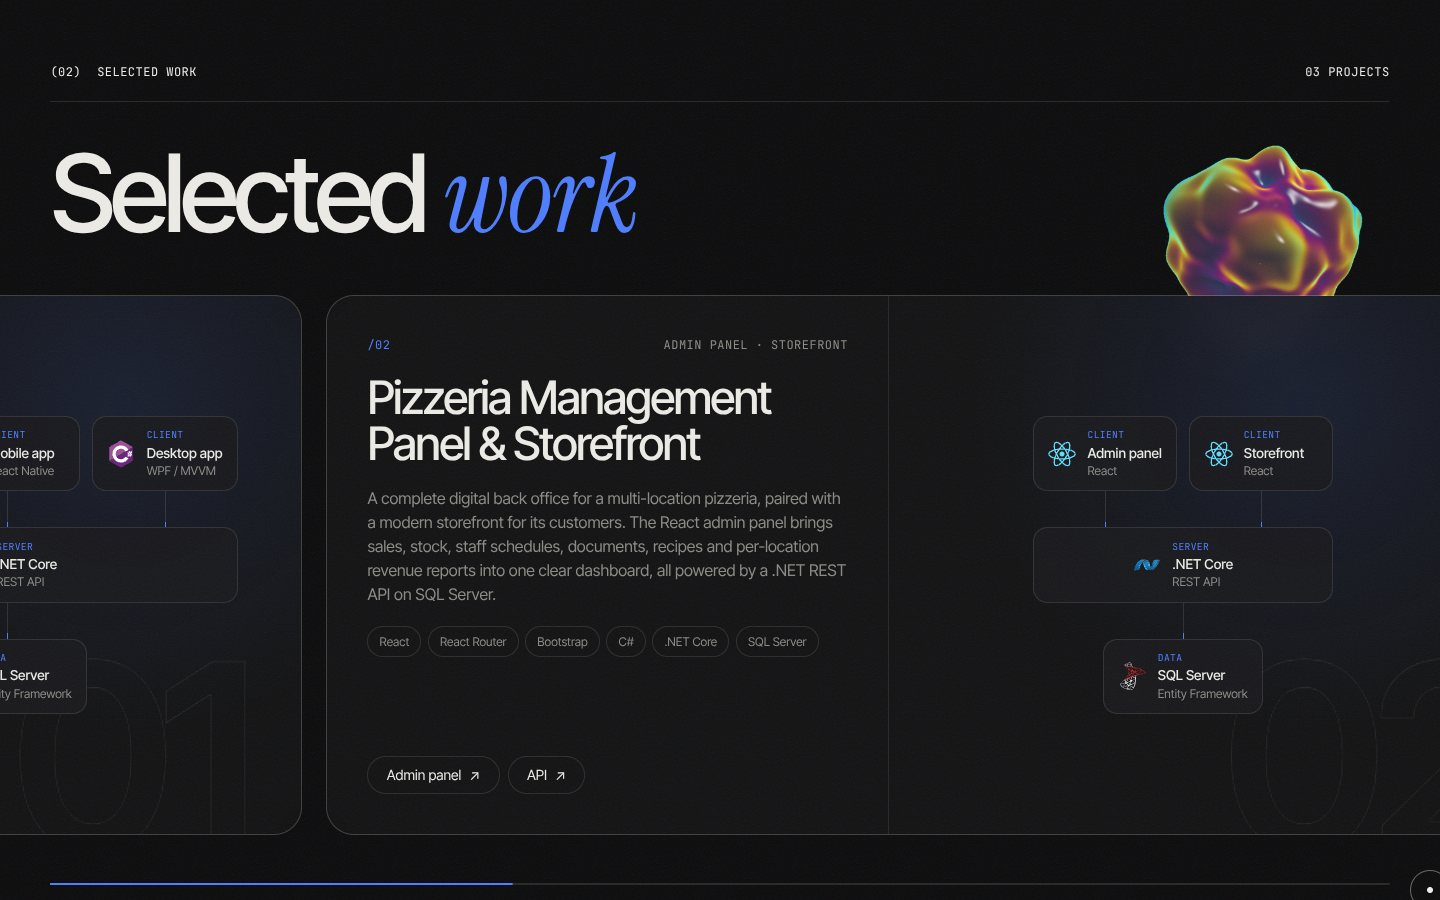
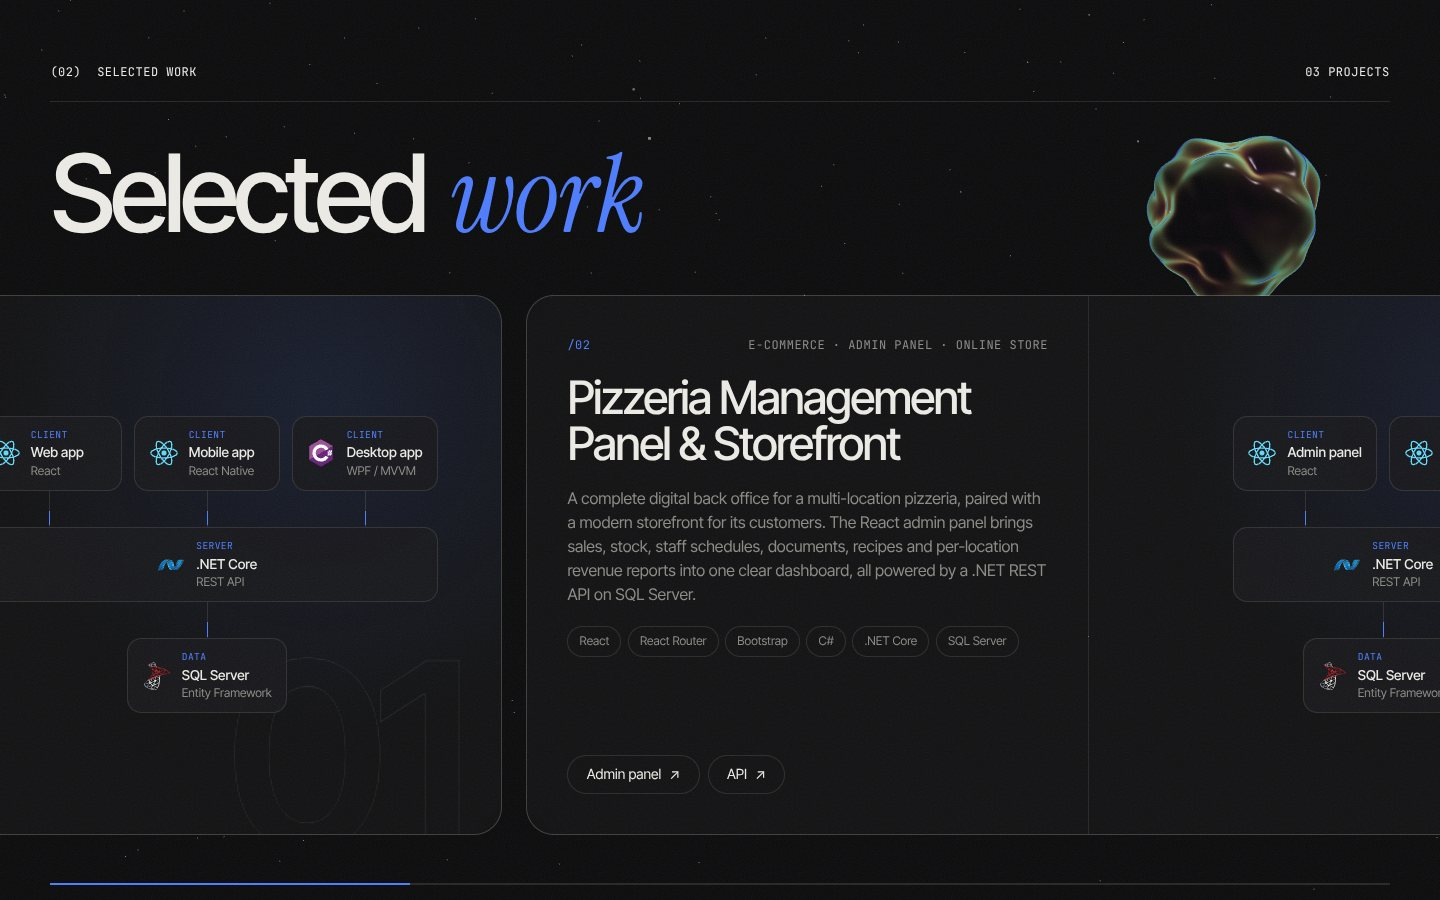
Refresh README screenshots with the live 3D scene

diff --git a/README.md b/README.md
@@ -8,7 +8,7 @@ A dark, cinematic one-pager in English and Polish, built around a single WebGL s
 
 ## Highlights
 
-- **One continuous WebGL scene.** A custom GLSL blob (simplex-noise displacement, iridescent fresnel shading, bloom) moves, scales and recolours per section, and reacts to the pointer and to scroll speed.
+- **One continuous WebGL scene.** A custom GLSL blob (simplex-noise displacement, pearl-toned iridescent fresnel shading) moves, scales and recolours per section, and reacts to the pointer and to scroll speed.
 - **Bilingual, EN / PL.** Switching language makes the blob swell until it floods the screen, swaps the copy underneath and shrinks back, while labels decode with a scramble effect. The language comes from `?lang=`, the last choice or the browser.
 - **Scroll choreography with GSAP.** A preloader, SplitText headline reveals, scroll-lit About copy, a pinned horizontal project gallery, stacking service cards, an experience accordion and a velocity-reactive tech marquee, on top of Lenis smooth scrolling.
 - **Details.** A custom cursor, magnetic buttons, film grain, a live local clock and an animated *Download CV* button.
